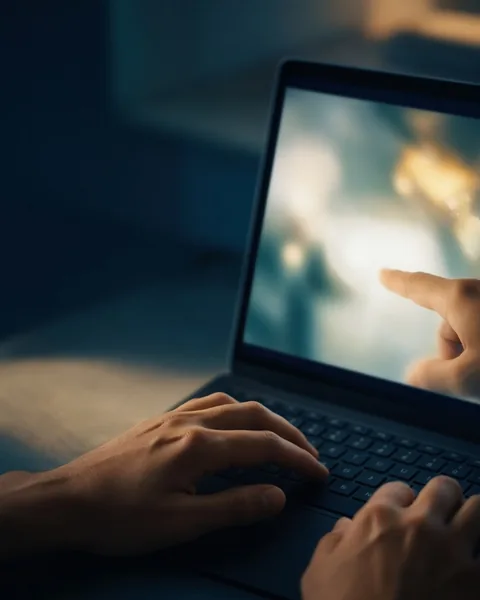
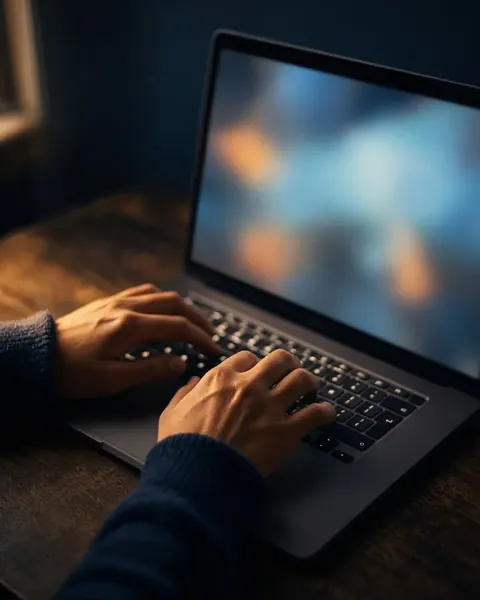
Images Grok : visuels definitifs et textes alternatifs

diff --git a/projets.html b/projets.html
@@ -193,7 +193,7 @@
   <p class="action__texte">Une présence, une écoute et une aide concrète pour les personnes qui traversent des traitements médicaux lourds ou des situations de santé difficiles.</p>
 </li>
 <li class="action" data-axe="numerique">
-  <span class="action__img" style="--pos:50% 60%"><img src="assets/img/axe-numerique-640.webp" srcset="assets/img/axe-numerique-480.webp 480w, assets/img/axe-numerique-640.webp 640w, assets/img/axe-numerique-784.webp 784w" sizes="(min-width: 1100px) 22vw, (min-width: 700px) 40vw, 86vw" width="784" height="980" alt="Des mains apprennent à utiliser un ordinateur portable" decoding="async" loading="lazy"></span>
+  <span class="action__img" style="--pos:50% 60%"><img src="assets/img/axe-numerique-640.webp" srcset="assets/img/axe-numerique-480.webp 480w, assets/img/axe-numerique-640.webp 640w, assets/img/axe-numerique-784.webp 784w" sizes="(min-width: 1100px) 22vw, (min-width: 700px) 40vw, 86vw" width="784" height="980" alt="Deux mains tapent sur le clavier d’un ordinateur portable allumé, posé sur une table en bois" decoding="async" loading="lazy"></span>
   <span class="action__axe">Inclusion numérique et parentalité</span>
   <h3 class="action__titre">Inclusion numérique pour tous</h3>
   <p class="action__texte">L’accès aux outils en ligne, aux services administratifs, aux ressources pour la recherche d’emploi et à des formations de base, pour réduire la fracture numérique.</p>

diff --git a/index.html b/index.html
@@ -200,7 +200,7 @@
         </article>
         <article class="axe-carte" data-tilt>
           <a class="axe-carte__lien" href="projets.html#axe-numerique">
-            <span class="axe-carte__img"><img src="assets/img/axe-numerique-640.webp" srcset="assets/img/axe-numerique-480.webp 480w, assets/img/axe-numerique-640.webp 640w, assets/img/axe-numerique-784.webp 784w" sizes="(min-width: 900px) 26vw, 74vw" width="784" height="980" alt="Des mains apprennent à utiliser un ordinateur portable" decoding="async" loading="lazy"></span>
+            <span class="axe-carte__img"><img src="assets/img/axe-numerique-640.webp" srcset="assets/img/axe-numerique-480.webp 480w, assets/img/axe-numerique-640.webp 640w, assets/img/axe-numerique-784.webp 784w" sizes="(min-width: 900px) 26vw, 74vw" width="784" height="980" alt="Deux mains tapent sur le clavier d’un ordinateur portable allumé, posé sur une table en bois" decoding="async" loading="lazy"></span>
             <h3 class="axe-carte__titre">Inclusion numérique et parentalité</h3>
             <p class="axe-carte__detail">Le numérique pour tous, la parentalité à l’ère des écrans</p>
             <p class="axe-carte__nombre">2 actions</p>
